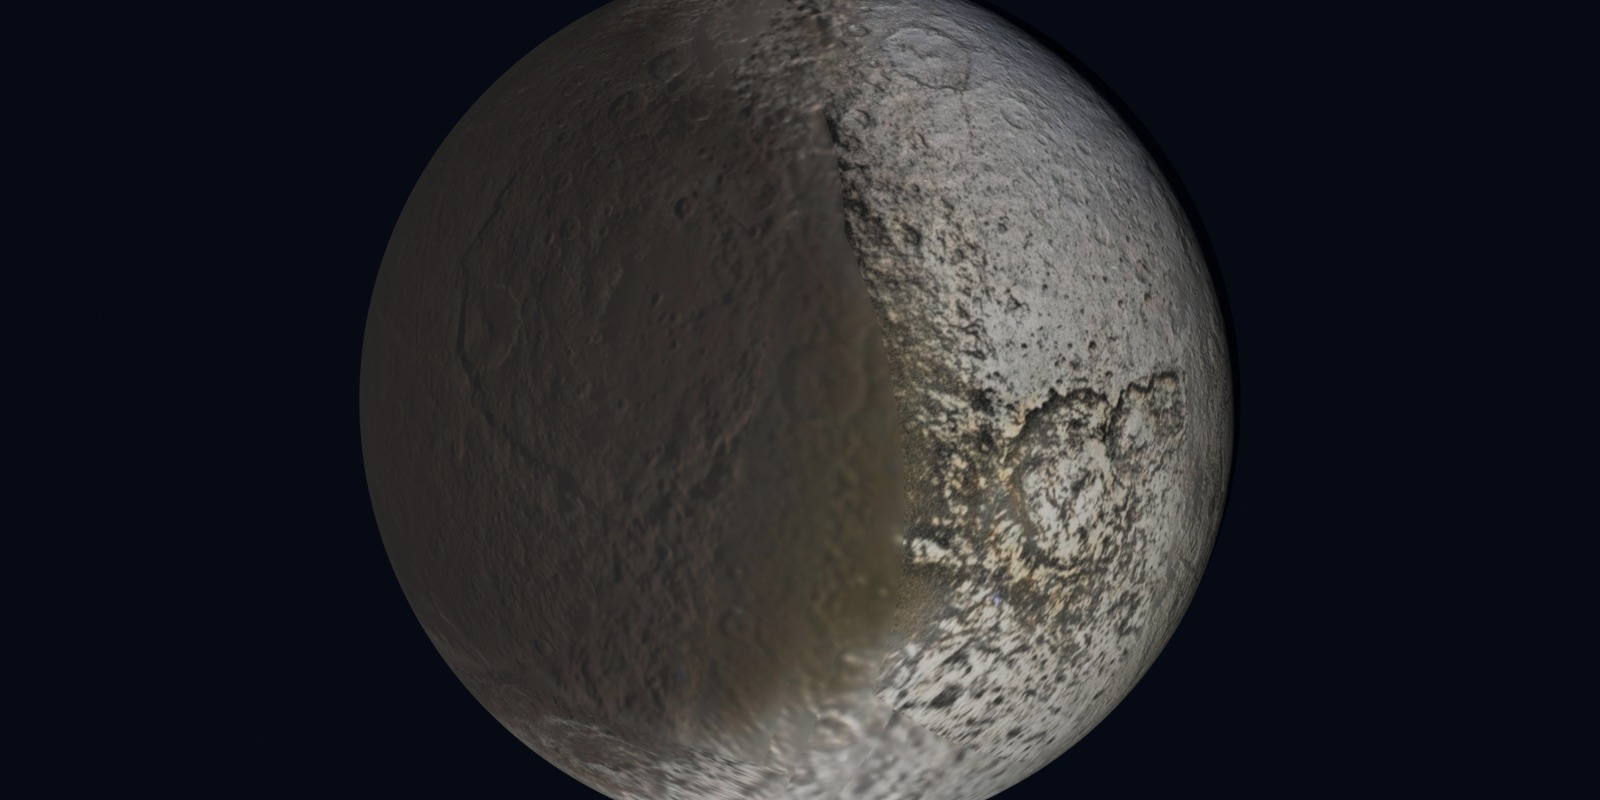
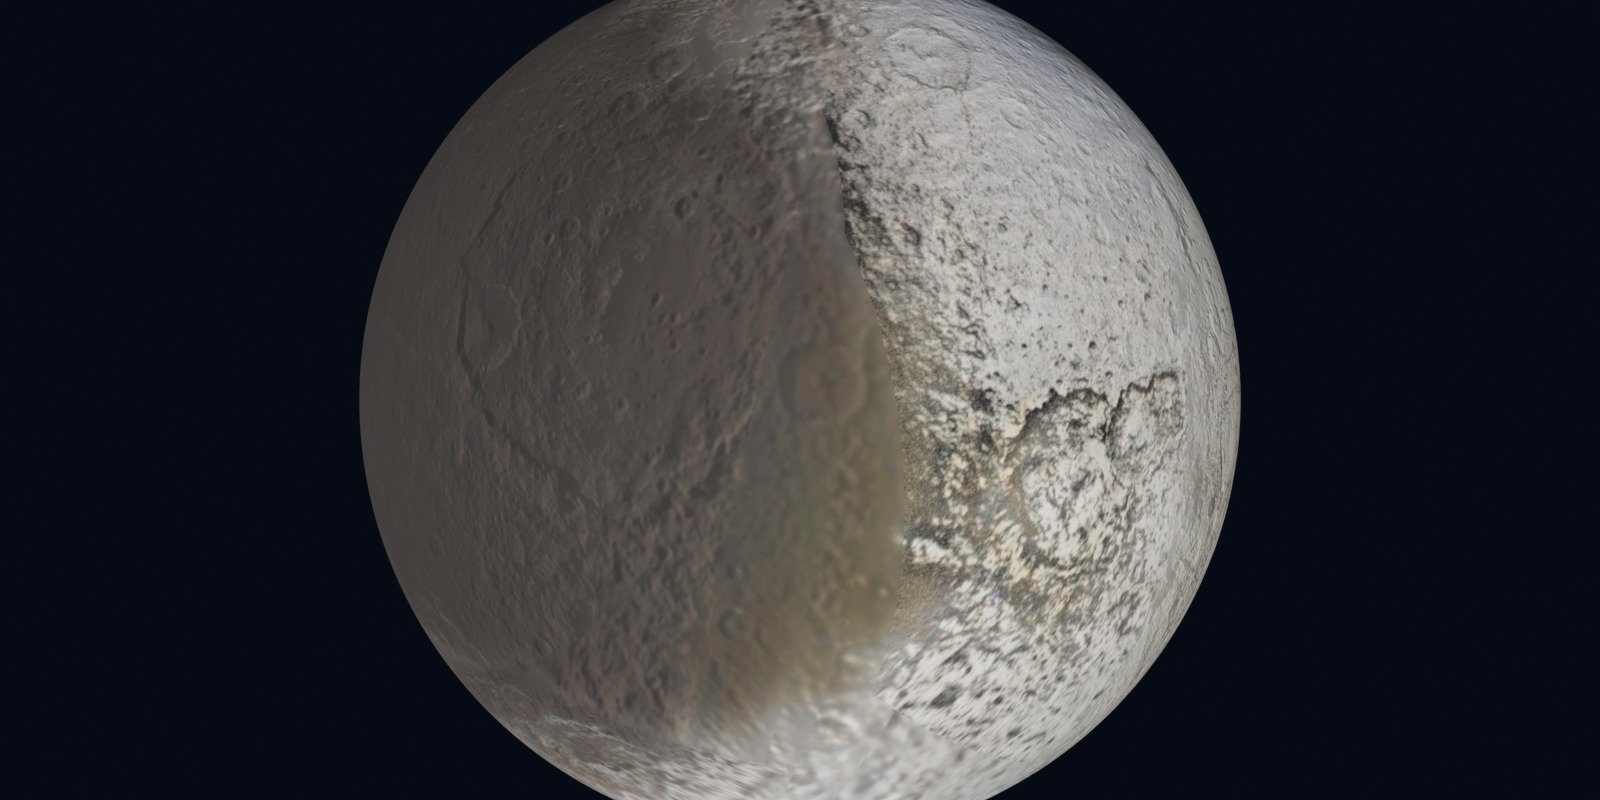
Triage: per-image premium flag; Iapetus lit flat so dark terrain isn't read as shadow
Premium flags (scripts/add_premium_flags.py) — a checkbox on every card, for
marking scenes as future purchasable-pack content rather than initial download.
At ~100 MB of stereo HEIC per scene this is the biggest lever on install size.

Injected as ONE marked style+script block that attaches a checkbox to every
`.card` at runtime, rather than rewriting card markup:
- the 50 sky cards must stay byte-identical, since KEEP/REMOVE marks live in
  localStorage keyed by data-name;
- cards added later (planets, re-renders) get the checkbox with no second
  generator to keep in sync.
Stored under its own localStorage key, so an image can be both kept and
premium — the normal case. Gold rather than red so it stays readable on a card
that is also marked REMOVE (which greys the artwork). The label calls
stopPropagation: without it, ticking "premium" would also fire the card's
onclick and mark the image for deletion, the exact opposite intent.

Iapetus — the dark half was never shadow, it is the 0.05-albedo Cassini Regio,
which is the entire reason for using the colour map. But a viewer cannot tell a
dark hemisphere from a shadowed one, so the fix is to remove every competing
cue: sun azimuth to 0 (dead-on, no terminator at all), lamp energy 4 -> 7, and
a broad soft fill from the opposite side. Left limb now sits at 61/255 instead
of 45 with craters legible across the full disc, so the darkness reads as
terrain. Limb darkening alone still gives it roundness.
[…]

diff --git a/scripts/add_premium_flags.py b/scripts/add_premium_flags.py
@@ -1,0 +1,156 @@
+#!/usr/bin/env python3
+"""Add a per-image PREMIUM checkbox to triage.html.
+
+Purpose: the app bundles ~100 MB of stereo HEIC per scene, so shipping every sky in the
+initial download is the single biggest lever on install size. Flagging scenes as premium
+marks them for a future purchasable pack — downloaded on demand rather than up front. This
+page is where that call gets made, alongside the KEEP/REMOVE call.
+
+Splices ONE marked <style>+<script> block before </body> and attaches a checkbox to every
+`.card` at runtime, rather than rewriting each card's markup. Three reasons:
+  - The 50 sky cards must stay byte-identical: KEEP/REMOVE marks live in browser
+    localStorage keyed by `data-name`, and rewriting cards risks disturbing that.
+  - Cards added later (the planet section, or a future re-render) get the checkbox for
+    free — no need to keep two generators in sync.
+  - It stays a single block to remove if the idea is dropped.
+
+Premium marks are stored under their OWN localStorage key, independent of the REMOVE set, so
+an image can be both kept and premium — which is the normal case.
+
+Idempotent: re-running replaces its own marked block.
+"""
+
+import pathlib
+import re
+
+ROOT = pathlib.Path(__file__).resolve().parent.parent
+HTML = ROOT / "triage.html"
+
+MARK_START = "<!-- PREMIUM:START -->"
+MARK_END = "<!-- PREMIUM:END -->"
+
+BLOCK = """<!-- PREMIUM:START -->
+<style>
+  /* The card is position:relative already, so the toggle can sit over the artwork.
+     Top-LEFT deliberately: the REMOVE tag owns the top-right corner. */
+  .premium-toggle { position:absolute; top:8px; left:8px; z-index:3;
+                    display:flex; gap:6px; align-items:center; cursor:pointer;
+                    background:#000000b3; color:#cfcfd6; border:1px solid #3a3a44;
+                    border-radius:5px; padding:3px 8px;
+                    font-size:10px; letter-spacing:.07em; text-transform:uppercase; }
+  .premium-toggle:hover { background:#000000e0; }
+  .premium-toggle input { accent-color:#e8a33d; margin:0; cursor:pointer; }
+  /* Gold, not red: a premium flag must stay readable on a card that is ALSO marked
+     REMOVE, and .card.removed greys and dims the artwork underneath. */
+  .card.premium .premium-toggle { background:#e8a33d; color:#1a1408;
+                                  border-color:#f0b95e; font-weight:700; }
+  .card.premium .premium-toggle input { accent-color:#1a1408; }
+  #premiumBox { display:flex; gap:12px; align-items:center; flex:1; }
+  #premiumBox textarea { flex:1; height:64px; background:#101014; color:#e8a33d;
+                         border:1px solid #333; border-radius:6px; padding:6px 8px;
+                         font:12px ui-monospace, monospace; resize:none; }
+  #premiumCount { min-width:104px; color:#e8a33d; font-weight:600; }
+</style>
+<script>
+(function () {
+  var PKEY = "float-triage-premium";
+  var premium = new Set(JSON.parse(localStorage.getItem(PKEY) || "[]"));
+  var cards = Array.prototype.slice.call(document.querySelectorAll(".card"));
+  var onPage = new Set(cards.map(function (c) { return c.dataset.name; }));
+  // Drop marks for images no longer on the page, same as the REMOVE set does.
+  premium = new Set(Array.from(premium).filter(function (n) { return onPage.has(n); }));
+
+  function syncPremium() {
+    localStorage.setItem(PKEY, JSON.stringify(Array.from(premium)));
+    var names = Array.from(premium).sort();
+    document.getElementById("premiumCount").textContent =
+      premium.size + " premium \\u00b7 " + (onPage.size - premium.size) + " in base";
+    document.getElementById("premiumList").value = names.join("\\n");
+  }
+
+  cards.forEach(function (card) {
+    var name = card.dataset.name;
+    var label = document.createElement("label");
+    label.className = "premium-toggle";
+    var box = document.createElement("input");
+    box.type = "checkbox";
+    box.checked = premium.has(name);
+    // The whole card has an onclick that toggles REMOVE. Without stopPropagation, ticking
+    // "premium" would also mark the image for deletion — the exact opposite intent.
+    label.addEventListener("click", function (e) { e.stopPropagation(); });
+    box.addEventListener("change", function () {
+      if (box.checked) { premium.add(name); } else { premium.delete(name); }
+      card.classList.toggle("premium", box.checked);
+      syncPremium();
+    });
+    label.appendChild(box);
+    label.appendChild(document.createTextNode("Premium"));
+    card.appendChild(label);
+    card.classList.toggle("premium", box.checked);
+  });
+
+  var box = document.createElement("div");
+  box.id = "premiumBox";
+  box.innerHTML =
+    '<div id="premiumCount"></div>' +
+    '<textarea id="premiumList" readonly spellcheck="false"></textarea>' +
+    '<button type="button" id="premiumCopy">Copy premium</button>' +
+    '<button type="button" id="premiumSave">Save premium</button>' +
+    '<button type="button" id="premiumClear">Clear premium</button>';
+  var footer = document.querySelector("footer");
+  footer.style.flexWrap = "wrap";
+  footer.appendChild(box);
+
+  document.getElementById("premiumCopy").addEventListener("click", function () {
+    var t = document.getElementById("premiumList");
+    t.select(); document.execCommand("copy");
+  });
+  document.getElementById("premiumSave").addEventListener("click", function () {
+    var blob = new Blob([document.getElementById("premiumList").value + "\\n"],
+                        { type: "text/plain" });
+    var a = document.createElement("a");
+    a.href = URL.createObjectURL(blob);
+    a.download = "triage_premium.txt";
+    a.click();
+  });
+  document.getElementById("premiumClear").addEventListener("click", function () {
+    if (!confirm("Clear all premium flags?")) { return; }
+    premium.clear();
+    document.querySelectorAll(".card.premium").forEach(function (c) {
+      c.classList.remove("premium");
+      var cb = c.querySelector(".premium-toggle input");
+      if (cb) { cb.checked = false; }
+    });
+    syncPremium();
+  });
+
+  syncPremium();
+})();
+</script>
+<!-- PREMIUM:END -->
+"""
+
+
+def main():
+    html = HTML.read_text()
+
+    if MARK_START in html:
+        html = re.sub(
+            re.escape(MARK_START) + r".*?" + re.escape(MARK_END) + r"\n?",
+            # lambda, not the string itself: re.sub parses backslash escapes in a literal
+            # replacement, and this block legitimately contains \u sequences (JS string
+            # escapes), which raises "bad escape \u".
+            lambda _m: BLOCK, html, flags=re.DOTALL)
+        action = "replaced"
+    else:
+        # After the existing </script> and before </body>, so it runs once the page's own
+        # toggle()/sync() are already defined and every card is in the DOM.
+        html = html.replace("</body>", BLOCK + "</body>", 1)
+        action = "inserted"
+
+    HTML.write_text(html)
+    print(f"{action} premium-flag block in triage.html")
+
+
+if __name__ == "__main__":
+    main()

diff --git a/scripts/render_planets.py b/scripts/render_planets.py
@@ -64,12 +64,15 @@ BODIES = {
     # The colour mosaic, not the mono one: Iapetus's whole point is the two-tone split
     # between the bright trailing side and the dark Cassini Regio, which mono throws away.
     # 11741 px wide, so it also outresolves the 8192 mono.
-    # sun_z: a shallow -20 deg instead of the default +40. The spin brought the dark
-    # Cassini Regio round to face the camera, but the default sun then put that half in
-    # night — a rotated body lit by an unmoved sun. This lights the side the spin exposes
-    # and leaves only a soft terminator.
+    # sun_z 0 (dead-on) and a brighter lamp, deliberately flat. The spin brings the dark
+    # Cassini Regio round to face the camera; with ANY appreciable terminator the result
+    # reads as "half the moon is in shadow", because a viewer cannot tell a 0.05-albedo
+    # hemisphere from a shadowed one. Killing the terminator outright makes every dark
+    # pixel unambiguously TERRAIN, and the extra energy lifts the dark side far enough to
+    # show craters in it rather than a black mass. Limb darkening still gives it roundness.
     "iapetus": {"map": "Iapetus_Color_Map.jpg", "tilt": 15.5, "spin": 0.75,
-                "sun_z": -0.35},
+                "sun_z": 0.0, "sun_energy": 7.0,
+                "fill": {"z": -1.0, "energy": 2.5}},
     # Cassini (Dec 2000) global coverage merged with Juno polar imagery by Björn Jónsson,
     # 14400x7200 REAL — honest to ~62 deg, so this is the one body that can fill a lot of
     # view and stay sharp. Chosen over both the Solar System Scope artist texture (4096, no
@@ -139,17 +142,33 @@ def reset_scene():
     scene.cycles.samples = 256
 
 
-def add_sun(sun_z=None):
+def add_sun(sun_z=None, energy=None):
     bpy.ops.object.light_add(type="SUN", location=(0, 0, 0))
     sun = bpy.context.object
     sun.rotation_euler = (SUN_EULER[0], SUN_EULER[1],
                           SUN_Z_DEFAULT if sun_z is None else sun_z)
-    sun.data.energy = 4.0
+    sun.data.energy = 4.0 if energy is None else energy
     # A real sun is not a point at this distance, and a hard-edged ring shadow looks CG.
     # ~0.53° is the sun's actual angular diameter from Earth; from Saturn it is far smaller,
     # but a little penumbra reads better than a razor edge.
     sun.data.angle = 0.009
     return sun
+
+
+def add_fill(z, energy):
+    """Weak second sun from the opposite side, purely to lift a limb out of blackness.
+
+    Not physical — there is no second star — but a directional key light alone always drives
+    N·L to zero at the limb, and on a body whose near limb is ALSO 0.05-albedo terrain the two
+    darkenings compound into something a viewer reads as a shadowed hemisphere. This raises
+    the floor so the dark terrain stays legible as terrain.
+    """
+    bpy.ops.object.light_add(type="SUN", location=(0, 0, 0))
+    fill = bpy.context.object
+    fill.rotation_euler = (SUN_EULER[0], SUN_EULER[1], z)
+    fill.data.energy = energy
+    fill.data.angle = 0.6      # broad and soft; a sharp second terminator would be worse
+    return fill
 
 
 def make_globe(name, map_path, tilt_deg, grade=None, spin=0.0):
@@ -288,7 +307,9 @@ def build(body, do_bake, do_preview=False):
         return
     log(f"=== {body} ({map_path.name}) ===")
     reset_scene()
-    add_sun(spec.get("sun_z"))
+    add_sun(spec.get("sun_z"), spec.get("sun_energy"))
+    if spec.get("fill"):
+        add_fill(spec["fill"]["z"], spec["fill"]["energy"])
     globe, mat, tex = make_globe(body, map_path, spec["tilt"], spec.get("grade"), spec.get("spin", 0.0))
     objects = [globe]
     if spec.get("rings"):

diff --git a/scripts/add_planets_to_triage.py b/scripts/add_planets_to_triage.py
@@ -37,8 +37,8 @@ CARDS = [
      "14400 REAL (Björn Jónsson) vs 4096 for the artist texture it replaces &middot; honest "
      "to ~62&deg;, the sharpest body here &middot; spun to put the Great Red Spot on the "
      "visible face &middot; graded +35% sat, +0.15 contrast &middot; poles are partly "
-     "synthetic where Juno data was blended in &middot; ⚠ redistribution needs a call, "
-     "see CREDITS.md"),
+     "synthetic where Juno data was blended in &middot; redistribution resolved: repo "
+     "goes private (see CREDITS.md)"),
     ("iapetus",      "Iapetus &mdash; colour mosaic",
      "11741 real Cassini/Voyager colour &middot; honest to ~59&deg; &middot; the two-tone "
      "split (bright trailing side vs dark Cassini Regio) is the point &middot; known "
@@ -81,7 +81,10 @@ def main():
     if MARK_START in html:
         html = re.sub(
             re.escape(MARK_START) + r".*?" + re.escape(MARK_END) + r"\n?",
-            section, html, flags=re.DOTALL)
+            # lambda, not the string itself: re.sub parses backslash escapes in a literal
+            # replacement, and this block legitimately contains \u sequences (JS string
+            # escapes), which raises "bad escape \u".
+            lambda _m: section, html, flags=re.DOTALL)
         action = "replaced"
     else:
         # Before the footer, so the planets land at the end of the scrollable card list

diff --git a/Float/Resources/Textures/CREDITS.md b/Float/Resources/Textures/CREDITS.md
@@ -581,12 +581,16 @@ genuinely pale and reads as washed out on its own.
 - **Terms:** "publicly available… you do not need a special permission to use
   them but if you do then please mention their origin." Credit line:
   **"Jupiter map created by Björn Jónsson (Cassini/Juno data, NASA/JPL)."**
-- **⚠ REDISTRIBUTION — needs a human decision.** The same author asks: *"please
-  do not place a copy of the maps on your website."* This repo is **public** on
-  GitHub, so committing the map file — or a USDZ with the full-res map embedded
-  — arguably is exactly that. Rendered images derived from it (the triage
-  previews) are clearly fine and are what the author says he'd like to see.
-  Resolve before any planet asset ships inside `Float/Resources/`.
+- **Redistribution — DECIDED (Rick, 2026-07-25): take the repo private.** The
+  author asks *"please do not place a copy of the maps on your website."* This
+  repo is currently public on GitHub, so committing the map — or a USDZ with it
+  embedded — would be exactly that. Flipping the repo to private removes the
+  concern entirely. **Final-cleanup item before any App Store submission**, not
+  a blocker for development now.
+  Note the two questions are separate: private-repo settles *hosting*. Shipping
+  inside an App Store binary is *use*, which these terms already permit without
+  special permission so long as the origin is credited — they carry no
+  non-commercial clause. Keep the credit line in the app's about/credits.
 - **Underlying data:** NASA/JPL Cassini and Juno, public domain.
 
 `Iapetus_Color_Map.jpg` — Cassini/Voyager colour mosaic of Iapetus,
